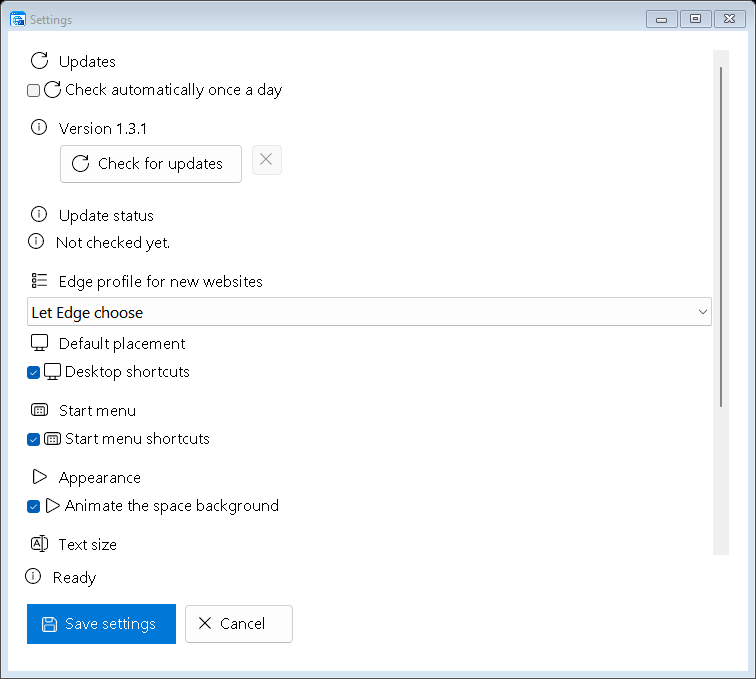
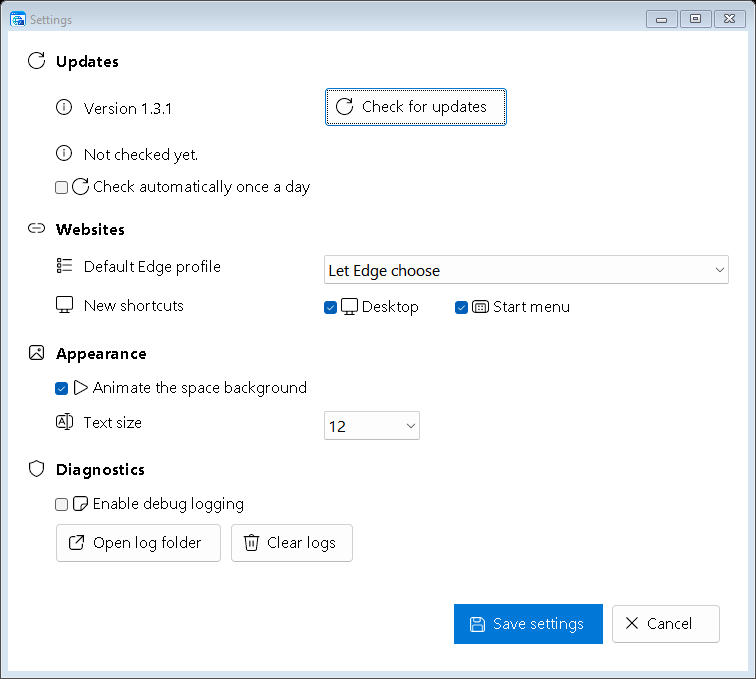
Streamline Preferences into grouped native settings

diff --git a/README.md b/README.md
@@ -50,18 +50,18 @@ Windows owns the pin and may keep a separate shortcut copy. After changing a web
 
 ## Settings and updates
 
-Open the gear menu, then **Preferences...**. Changes take effect after **Save settings**; **Cancel** discards unsaved choices. The main window's **Motion** checkbox saves its choice immediately.
+Open the gear menu, then **Preferences...**. Settings are grouped into **Updates**, **Websites**, **Appearance**, and **Diagnostics**, with related controls on shared rows. All four sections fit at the default text size; enlarged text remains scrollable, with **Save settings** and **Cancel** at the bottom right. Changes take effect after **Save settings**; **Cancel** discards unsaved choices. The main window's **Motion** checkbox saves its choice immediately.
 
 | Setting | Default | Effect |
 | --- | --- | --- |
 | Automatic update checks | Off | Checks GitHub at most once per 24 hours when setup opens or preferences are saved |
-| Debug logging | Off | Writes limited, local diagnostic events; nothing is uploaded |
 | Edge profile for new websites | Let Edge choose | Optionally saves a local `Default` or `Profile <number>` identifier with newly created apps |
 | Desktop and Start menu shortcuts | Both on | Initial placement in the new-website editor; at least one is required |
 | Animate the space background | On | Respects Windows reduced-motion, high-contrast, and remote-session settings |
 | Text size | 12 points | Choose 12, 14, 16, or 18 points for setup, its menu, and owned helper dialogs |
+| Debug logging | Off | Writes limited, local diagnostic events; nothing is uploaded |
 
-![Settings with opt-in update checking, profile selection, shortcut defaults, and appearance controls.](docs/images/settings.png)
+![Settings with grouped Updates, Websites, Appearance, and Diagnostics sections and a right-aligned Save and Cancel footer.](docs/images/settings.png)
 
 **Check for updates** is available from the gear menu and Settings, even with automatic checks off. A detected newer stable release exposes **Download update**, which opens the official GitHub release page. No application code is downloaded or installed by the checker. Close setup, download the new MSI, and run it to upgrade; portable users replace their reviewed script. Checks can be cancelled, and connection or rate-limit failures leave the installed version unchanged.
 

diff --git a/docs/releases/v1.3.1.md b/docs/releases/v1.3.1.md
@@ -2,10 +2,12 @@
 
 Author: Blake Drumm (blakedrumm@microsoft.com)
 
-Taskbar pinning assistance for saved website shortcuts, available in both the portable script and per-user MSI.
+Taskbar pinning assistance and a cleaner Preferences layout, available in both the portable script and per-user MSI.
 
 ## What's new
 
+- **Preferences** now groups controls under Updates, Websites, Appearance, and Diagnostics. Related choices share rows, repeated captions are removed, and Save and Cancel sit at the bottom right. All sections fit at the default text size; enlarged text remains scrollable.
+- The update-cancel command appears only during a check, and the redundant idle Ready message is hidden. Settings validation, save/cancel behavior, and update handling are unchanged.
 - **Pin to taskbar...** sits beside Desktop and Start menu. Save and select a website to enable it.
 - The command opens File Explorer with the owned saved shortcut selected, preferring Start menu and falling back to Desktop. Right-click that shortcut, choose **Show more options** if needed, then **Pin to taskbar**.
 - Saved addresses, icons, notes, and Edge profiles remain unchanged. Unsaved editor changes are not applied. Missing or modified shortcuts fail safely with repair guidance.
@@ -26,5 +28,7 @@ The MSI, launcher, and script are unsigned. Obtain them from the official releas
 ## Verification
 
 Thirteen isolated application suites cover both Windows PowerShell 5.1 and PowerShell 7. New tests cover quoted Explorer paths, Start/Desktop fallback, shortcut ownership, saved profile preservation, WhatIf, recovery blocks, button enable/reset states, unsaved edits, Explorer failures, and 12/18/24-point layouts within 1024 by 768. Automated taskbar tests never open real Explorer windows or change taskbar pins.
+
+Settings regressions cover section grouping, compact default sizing, nested control reachability, footer placement, contextual update cancellation, and existing save, profile, update, and logging behavior.
 
 A separate native smoke check verified selection of the intended synthetic shortcut in File Explorer. The final Windows menu command, pin creation, and pinned launch require manual checks on the intended computer. MSI lifecycle and compiled-launcher checks remain part of release validation and CI.
